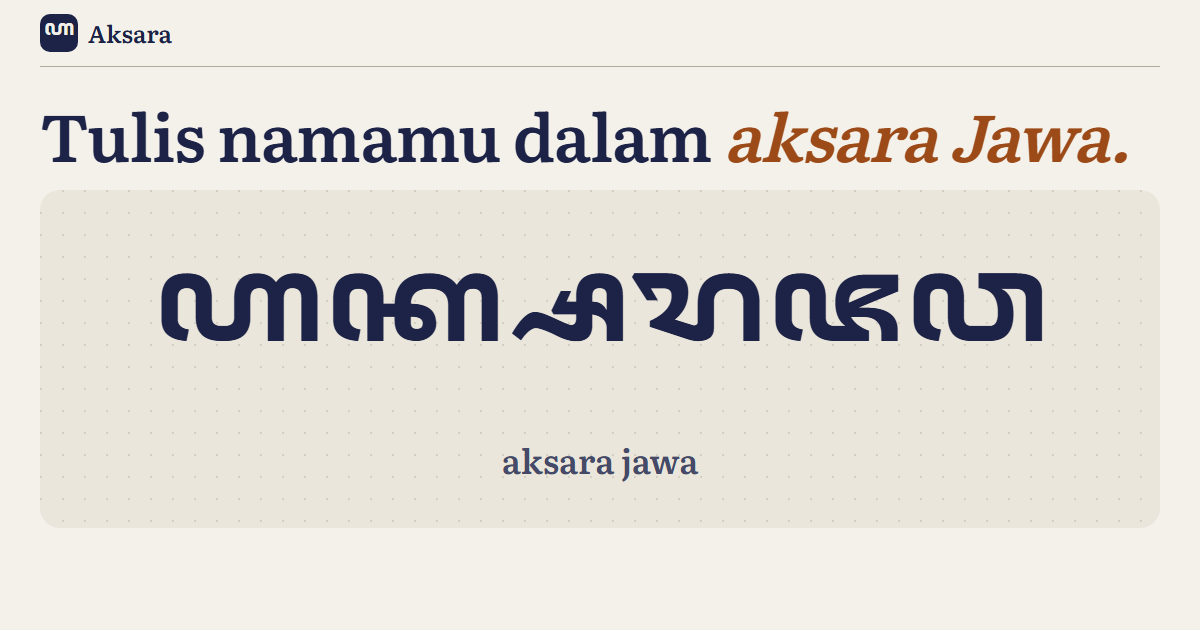
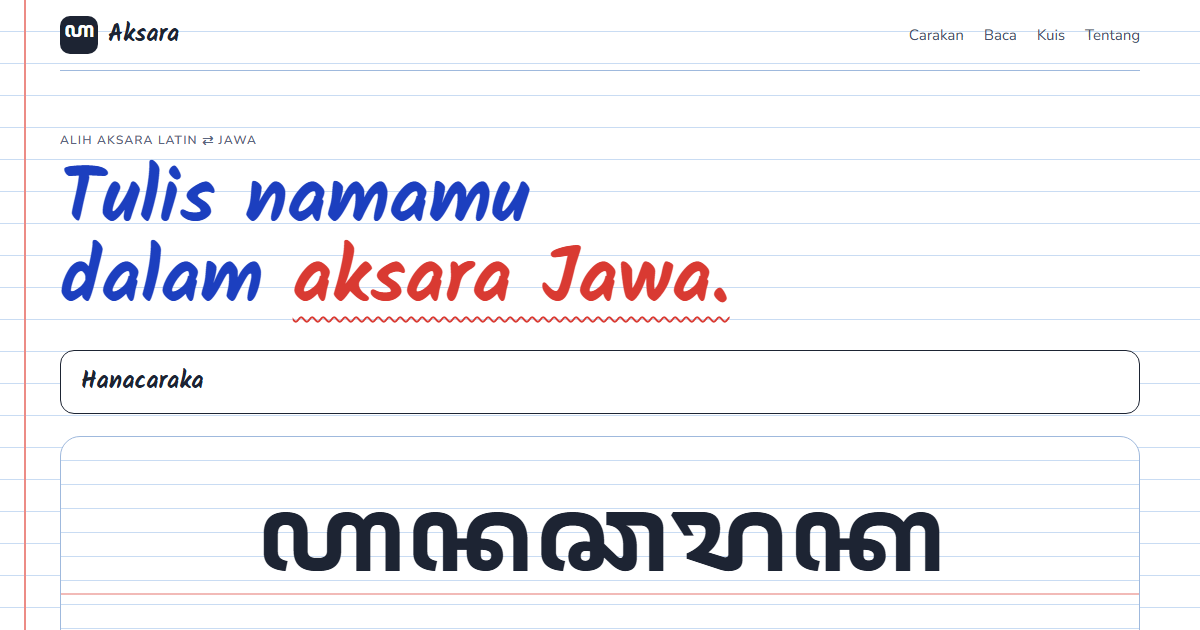
Tampilan baru: buku tulis

diff --git a/src/gaya.css b/src/gaya.css
@@ -1,39 +1,25 @@
 :root {
+  /* buku tulis SD: kertas putih bergaris biru, margin merah, tinta pulpen biru */
   color-scheme: light;
-  --kertas: #f4f1ea;
-  --kertas-2: #ebe6db;
-  --kertas-3: #ded7c8;
-  --tinta: #1c2347;
-  --tinta-2: #444a68;
-  --samar: #62677e;
-  --garis: #d6d0c2;
-  --garis-kuat: #b2ab9b;
-  --aksen: #9c4a17;
-  --aksen-lembut: #f2dcc6;
-  --benar: #2f6b3a;
-  --salah: #9a3324;
-  --sorot: #2f4fa3;
+  --kertas: #ffffff;
+  --kertas-2: #f4f8fe;
+  --kertas-3: #e6eefa;
+  --tinta: #1d2433;
+  --tinta-2: #45506a;
+  --samar: #5a6580;
+  --garis: #c9dcf3;
+  --garis-kuat: #9fb9dd;
+  --aksen: #1c3fbf;
+  --aksen-lembut: #e3eaff;
+  --pulpen-merah: #d93a32;
+  --margin: #ec8c86;
+  --benar: #2f7a3d;
+  --salah: #c8322a;
+  --sorot: #1c3fbf;
+  --baris: 32px;
   --jawa: "Noto Sans Javanese", serif;
-  --serif: "Literata Variable", Georgia, serif;
-  --huruf: "Work Sans Variable", system-ui, sans-serif;
-}
-@media (prefers-color-scheme: dark) {
-  :root {
-    color-scheme: dark;
-    --kertas: #0f1226;
-    --kertas-2: #171b35;
-    --kertas-3: #20254a;
-    --tinta: #ece8dc;
-    --tinta-2: #c4c3cf;
-    --samar: #9798ac;
-    --garis: #282d52;
-    --garis-kuat: #3d4372;
-    --aksen: #f0a868;
-    --aksen-lembut: #3d2814;
-    --benar: #7fd18f;
-    --salah: #ff9a85;
-    --sorot: #8fb0ff;
-  }
+  --serif: "Kalam", "Comic Sans MS", cursive;
+  --huruf: "Nunito Sans Variable", system-ui, sans-serif;
 }
 
 *,
@@ -43,9 +29,26 @@
 }
 body {
   margin: 0;
-  background: var(--kertas);
   color: var(--tinta);
   font: 400 16px/1.6 var(--huruf);
+  /* garis buku tulis */
+  background: repeating-linear-gradient(var(--kertas) 0 calc(var(--baris) - 1px), var(--garis) calc(var(--baris) - 1px) var(--baris)) var(--kertas);
+}
+/* garis margin merah di kiri, seperti buku tulis */
+@media (min-width: 900px) {
+  body {
+    position: relative;
+  }
+  body::before {
+    content: "";
+    position: absolute;
+    top: 0;
+    bottom: 0;
+    left: max(24px, calc(50% - 560px - 40px));
+    width: 2px;
+    background: var(--margin);
+    pointer-events: none;
+  }
 }
 a {
   color: inherit;
@@ -87,8 +90,10 @@ h1,
 h2,
 h3 {
   font-family: var(--serif);
-  font-weight: 600;
-  letter-spacing: -0.015em;
+  font-weight: 700;
+  letter-spacing: 0;
+  color: var(--aksen);
+  text-wrap: balance;
 }
 h1 {
   margin: 12px 0 0;
@@ -98,8 +103,12 @@ h1 {
 }
 h1 em,
 h2 em {
-  font-style: italic;
-  color: var(--aksen);
+  /* coretan pulpen merah guru */
+  font-style: normal;
+  color: var(--pulpen-merah);
+  text-decoration: underline wavy var(--pulpen-merah);
+  text-decoration-thickness: 2px;
+  text-underline-offset: 0.18em;
 }
 h2 {
   margin: 8px 0 0;
@@ -126,7 +135,7 @@ main,
   align-items: center;
   gap: 10px;
   text-decoration: none;
-  font: 600 24px/1 var(--serif);
+  font: 700 24px/1 var(--serif);
 }
 .merek .jawa {
   display: grid;
@@ -163,7 +172,7 @@ main,
   border: 1.5px solid var(--tinta);
   border-radius: 14px;
   background: var(--kertas);
-  font: 500 24px var(--serif);
+  font: 700 24px var(--serif);
 }
 .contoh {
   display: flex;
@@ -187,9 +196,12 @@ main,
   margin-top: 22px;
   padding: clamp(18px, 3vw, 32px);
   border-radius: 20px;
-  background: var(--kertas-2);
-  background-image: radial-gradient(circle at 1px 1px, var(--garis) 1px, transparent 0);
-  background-size: 22px 22px;
+  border: 1.5px solid var(--garis-kuat);
+  /* lembar latihan menulis: garis bantu tiga baris */
+  background:
+    linear-gradient(transparent calc(50% - 1px), rgb(217 58 50 / 0.35) calc(50% - 1px) calc(50% + 1px), transparent calc(50% + 1px)),
+    repeating-linear-gradient(transparent 0 23px, var(--garis) 23px 24px),
+    var(--kertas);
 }
 .hasil-jawa {
   --ukuran: 1;
@@ -288,7 +300,7 @@ main,
   line-height: 1.6;
 }
 .rinci-latin {
-  font: 600 16px var(--serif);
+  font: 700 16px var(--serif);
 }
 .rinci-catatan {
   font-size: 12px;
@@ -325,7 +337,7 @@ main,
 }
 .baris-arti strong {
   display: block;
-  font: 600 22px var(--serif);
+  font: 700 22px var(--serif);
 }
 .baris-arti span {
   color: var(--samar);
@@ -351,7 +363,7 @@ main,
   line-height: 1.5;
 }
 .nama {
-  font: 600 15px var(--serif);
+  font: 700 15px var(--serif);
 }
 .pasangan {
   margin-top: 2px;
@@ -388,7 +400,7 @@ main,
 }
 .sandhangan strong {
   display: block;
-  font: 600 15px var(--serif);
+  font: 700 15px var(--serif);
   color: var(--tinta);
 }
 
@@ -414,7 +426,7 @@ main,
   padding: 14px 16px;
   border-radius: 14px;
   background: var(--kertas-2);
-  font: 500 24px/1.5 var(--serif);
+  font: 700 24px/1.5 var(--serif);
   overflow-wrap: anywhere;
 }
 
@@ -443,7 +455,7 @@ main,
   border: 1.5px solid var(--tinta);
   border-radius: 12px;
   background: var(--kertas);
-  font: 600 20px var(--serif);
+  font: 700 20px var(--serif);
   cursor: pointer;
 }
 .pilihan-jawab button:hover {

diff --git a/src/main.ts b/src/main.ts
@@ -1,7 +1,8 @@
 import "@fontsource/noto-sans-javanese/400.css";
 import "@fontsource/noto-sans-javanese/700.css";
-import "@fontsource-variable/literata";
-import "@fontsource-variable/work-sans";
+import "@fontsource/kalam/400.css";
+import "@fontsource/kalam/700.css";
+import "@fontsource-variable/nunito-sans";
 import "./gaya.css";
 import { CARAKAN, CONTOH, PANGKON, type Pilihan, keJawa, keJawaRinci, keLatin } from "./aksara";
 
@@ -83,32 +84,36 @@ $("#unduh").addEventListener("click", async () => {
   const jawa = keJawa(masuk.value, pilihan);
   if (!jawa) return;
   await document.fonts.load('700 120px "Noto Sans Javanese"', jawa);
-  await document.fonts.load('600 40px "Literata Variable"');
+  await document.fonts.load('700 44px "Kalam"');
   const c = document.createElement("canvas");
   c.width = 1200;
   c.height = 630;
   const g = c.getContext("2d")!;
   const css = getComputedStyle(document.documentElement);
-  g.fillStyle = css.getPropertyValue("--kertas").trim();
+  const v = (n: string) => css.getPropertyValue(n).trim();
+  // Selembar buku tulis: garis biru tiap 42 px dan margin merah di kiri.
+  g.fillStyle = v("--kertas");
   g.fillRect(0, 0, 1200, 630);
-  g.fillStyle = css.getPropertyValue("--aksen").trim();
-  g.fillRect(0, 0, 1200, 10);
-  g.fillStyle = css.getPropertyValue("--tinta").trim();
+  g.fillStyle = v("--garis");
+  for (let y = 41; y < 630; y += 42) g.fillRect(0, y, 1200, 2);
+  g.fillStyle = v("--margin");
+  g.fillRect(96, 0, 3, 630);
+  g.fillStyle = v("--tinta");
   g.textAlign = "center";
   g.textBaseline = "middle";
   let ukuran = 150;
   g.font = `700 ${ukuran}px "Noto Sans Javanese"`;
-  while (g.measureText(jawa).width > 1080 && ukuran > 40) {
+  while (g.measureText(jawa).width > 1000 && ukuran > 40) {
     ukuran -= 6;
     g.font = `700 ${ukuran}px "Noto Sans Javanese"`;
   }
-  g.fillText(jawa, 600, 280);
-  g.font = '600 40px "Literata Variable", Georgia, serif';
-  g.fillStyle = css.getPropertyValue("--tinta-2").trim();
-  g.fillText(masuk.value.trim(), 600, 470);
-  g.font = '400 22px "Work Sans Variable", system-ui, sans-serif';
-  g.fillStyle = css.getPropertyValue("--samar").trim();
-  g.fillText("aksara.raffstw.my.id", 600, 580);
+  g.fillText(jawa, 648, 270);
+  g.font = '700 46px "Kalam", cursive';
+  g.fillStyle = v("--aksen");
+  g.fillText(masuk.value.trim(), 648, 470);
+  g.font = '400 24px "Kalam", cursive';
+  g.fillStyle = v("--samar");
+  g.fillText("aksara.raffstw.my.id", 648, 578);
   const a = document.createElement("a");
   a.href = c.toDataURL("image/png");
   a.download = `aksara-${masuk.value.trim().toLowerCase().replace(/[^a-z0-9]+/g, "-") || "jawa"}.png`;

diff --git a/index.html b/index.html
@@ -17,8 +17,7 @@
     <meta property="og:image:height" content="630" />
     <meta name="twitter:card" content="summary_large_image" />
     <link rel="canonical" href="https://aksara.raffstw.my.id/" />
-    <meta name="theme-color" content="#f4f1ea" media="(prefers-color-scheme: light)" />
-    <meta name="theme-color" content="#0f1226" media="(prefers-color-scheme: dark)" />
+    <meta name="theme-color" content="#ffffff" />
     <link rel="icon" href="/ikon.svg" type="image/svg+xml" />
   </head>
   <body>

diff --git a/README.md b/README.md
@@ -50,4 +50,4 @@ npm test
 npm run build
 ```
 
-Vite + TypeScript, tanpa framework. Huruf: Noto Sans Javanese (SIL OFL), Literata, Work Sans.
+Vite + TypeScript, tanpa framework. Huruf: Noto Sans Javanese (SIL OFL), Kalam, Nunito Sans. Tampilan buku tulis: garis biru, margin merah, tinta pulpen biru.
